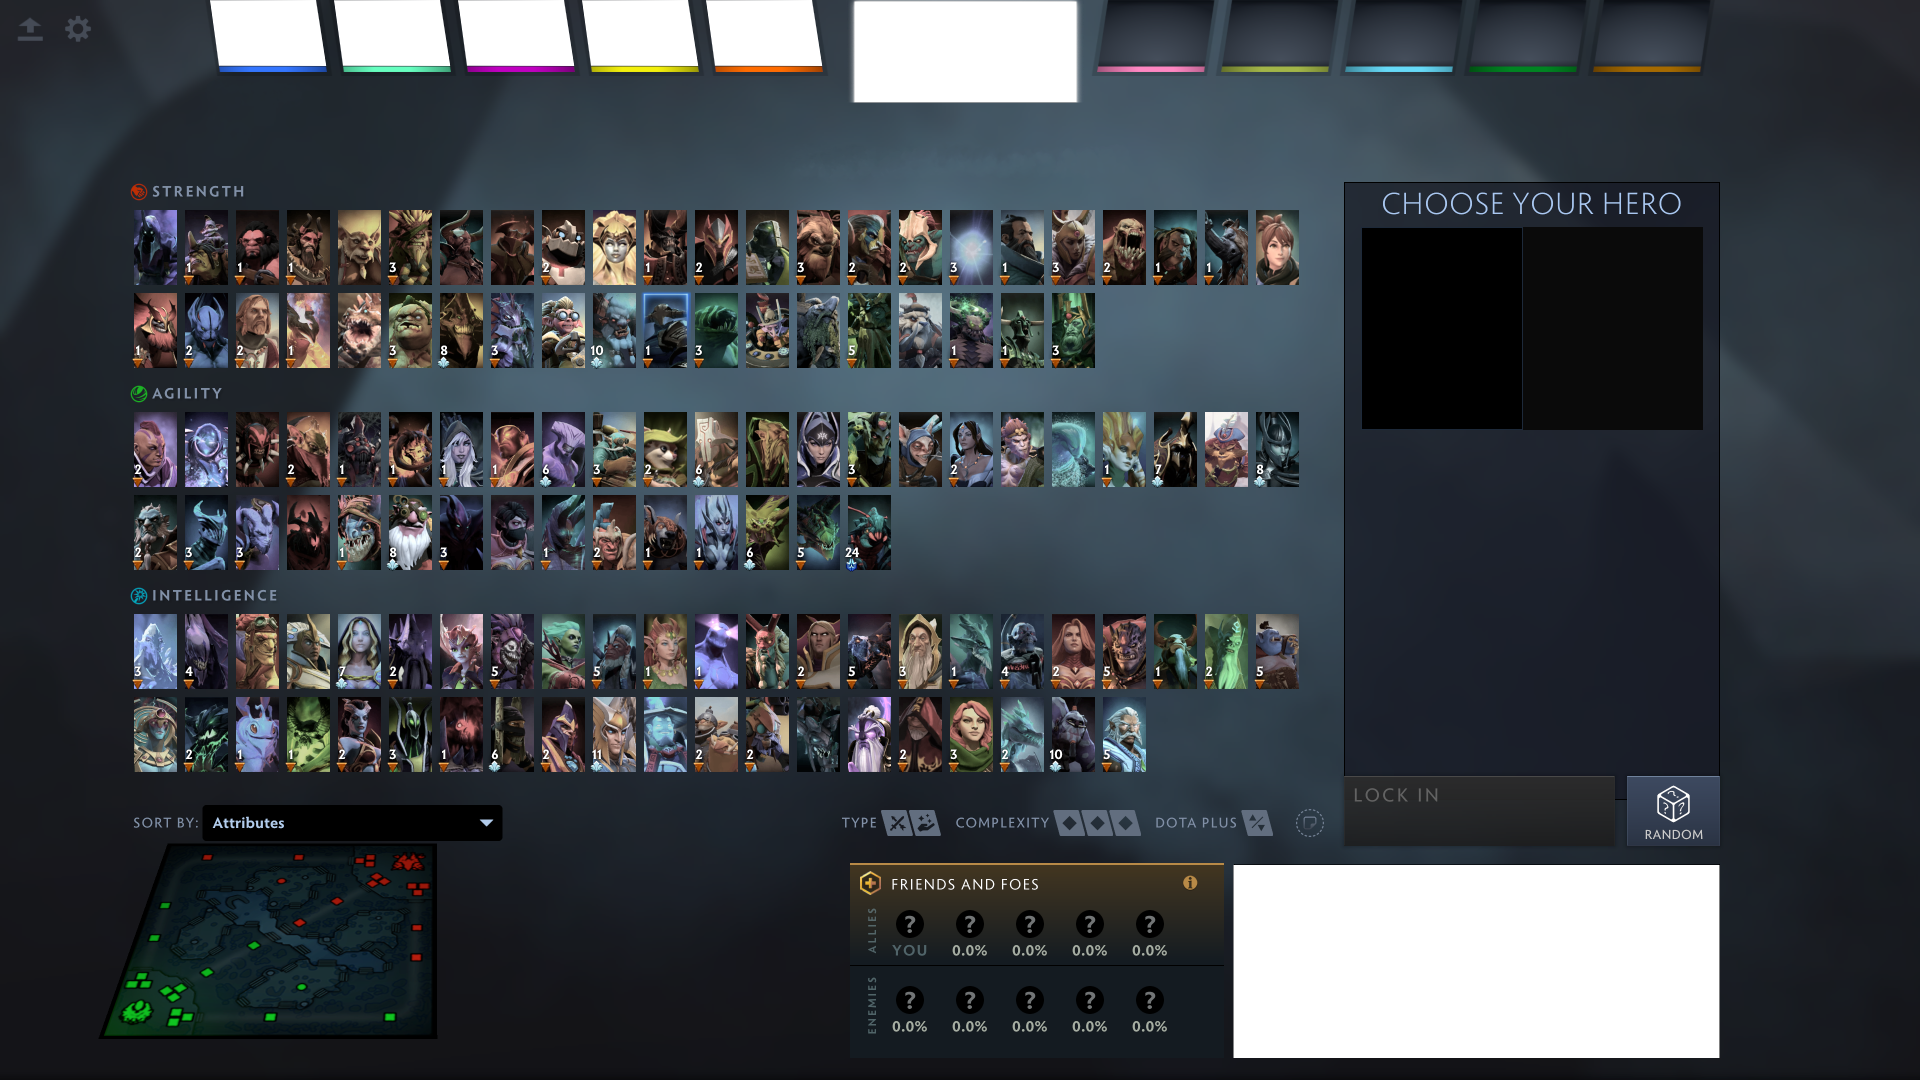
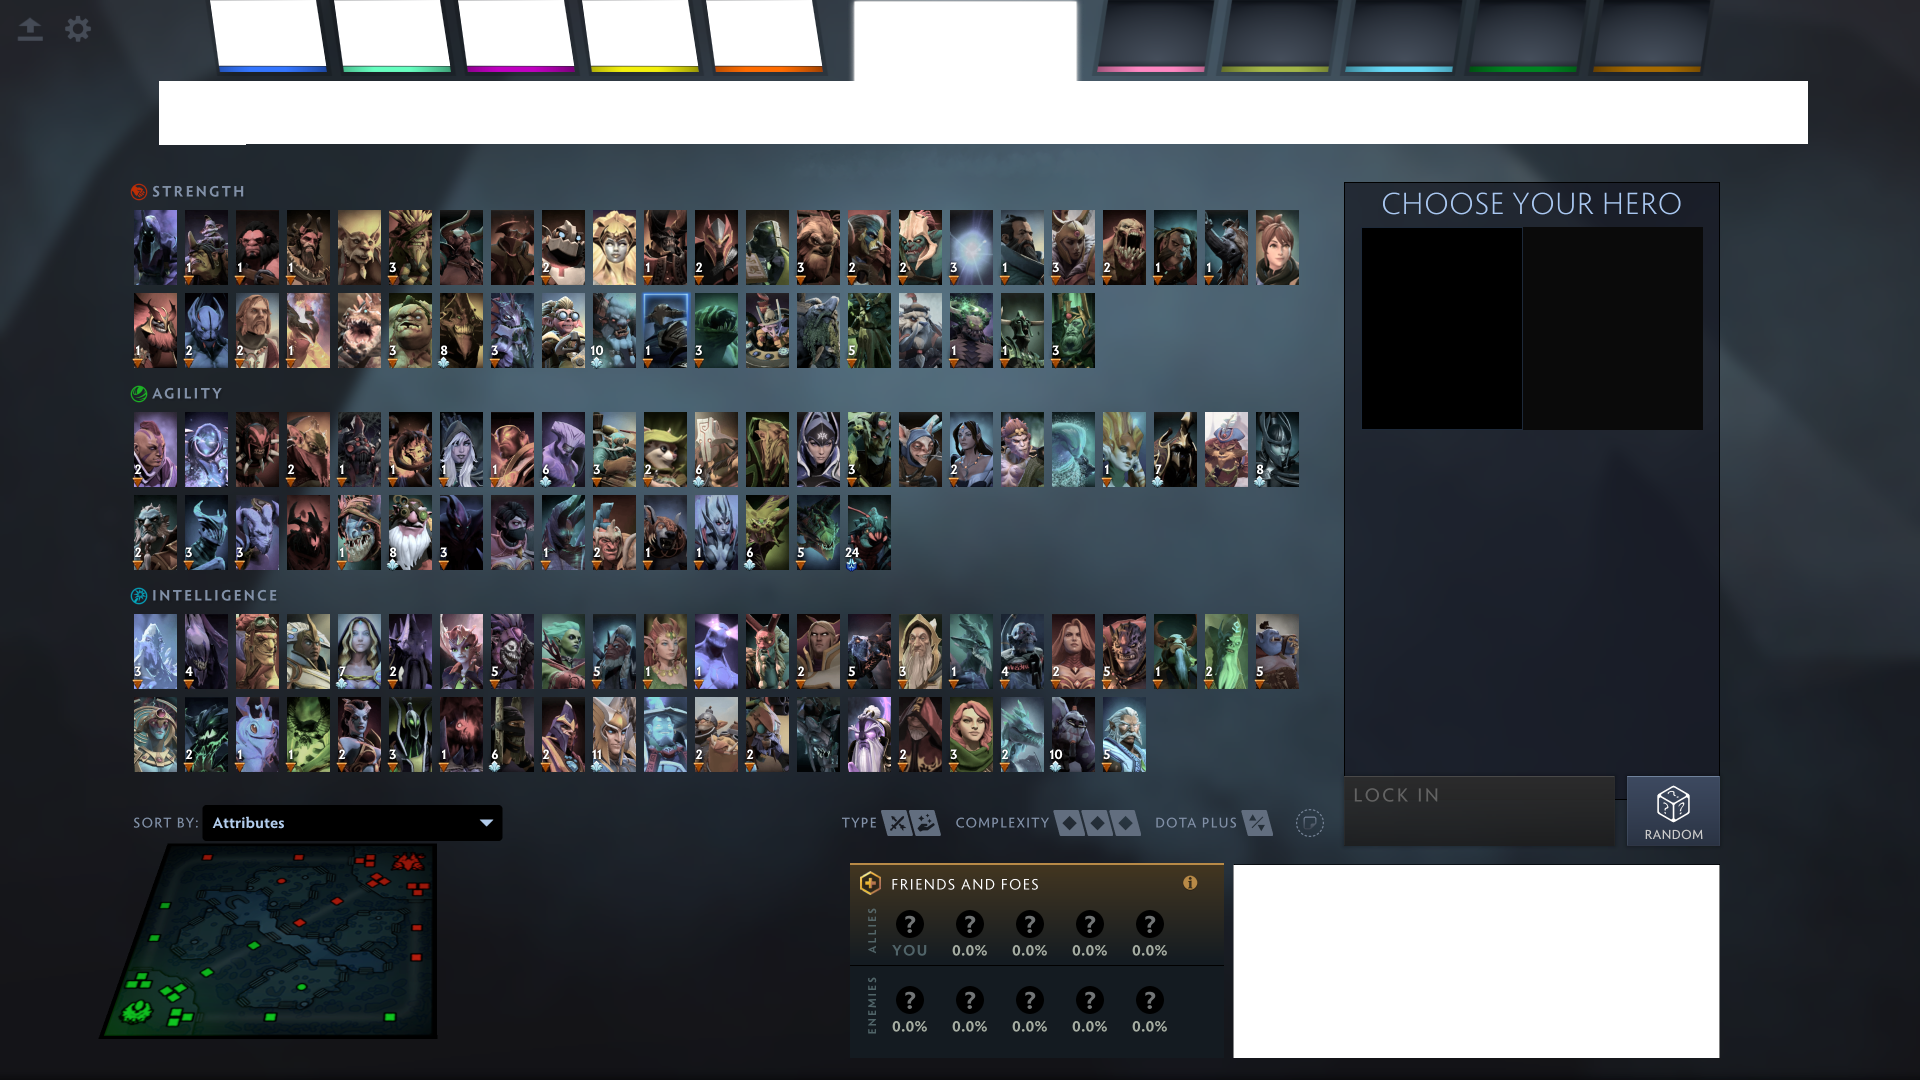
add new blockers

Changed region(s): [[0.0625, 0.0611, 0.9688, 0.1528]]

diff --git a/app/(dashboard)/dashboard/overlays/OverlayCopies.tsx b/app/(dashboard)/dashboard/overlays/OverlayCopies.tsx
@@ -71,7 +71,12 @@ function PicksCard() {
         </Card.Description>
       </Card.Header>
       <Card.Content>
-        <Image alt="picks blocker" width={1920} height={1080} src="/images/picker-overlay.png" />
+        <Image
+          alt="picks blocker"
+          width={1920}
+          height={1080}
+          src="/images/block-radiant-picks.png"
+        />
       </Card.Content>
       <Card.Footer>Enable | Disable</Card.Footer>
     </Card>
